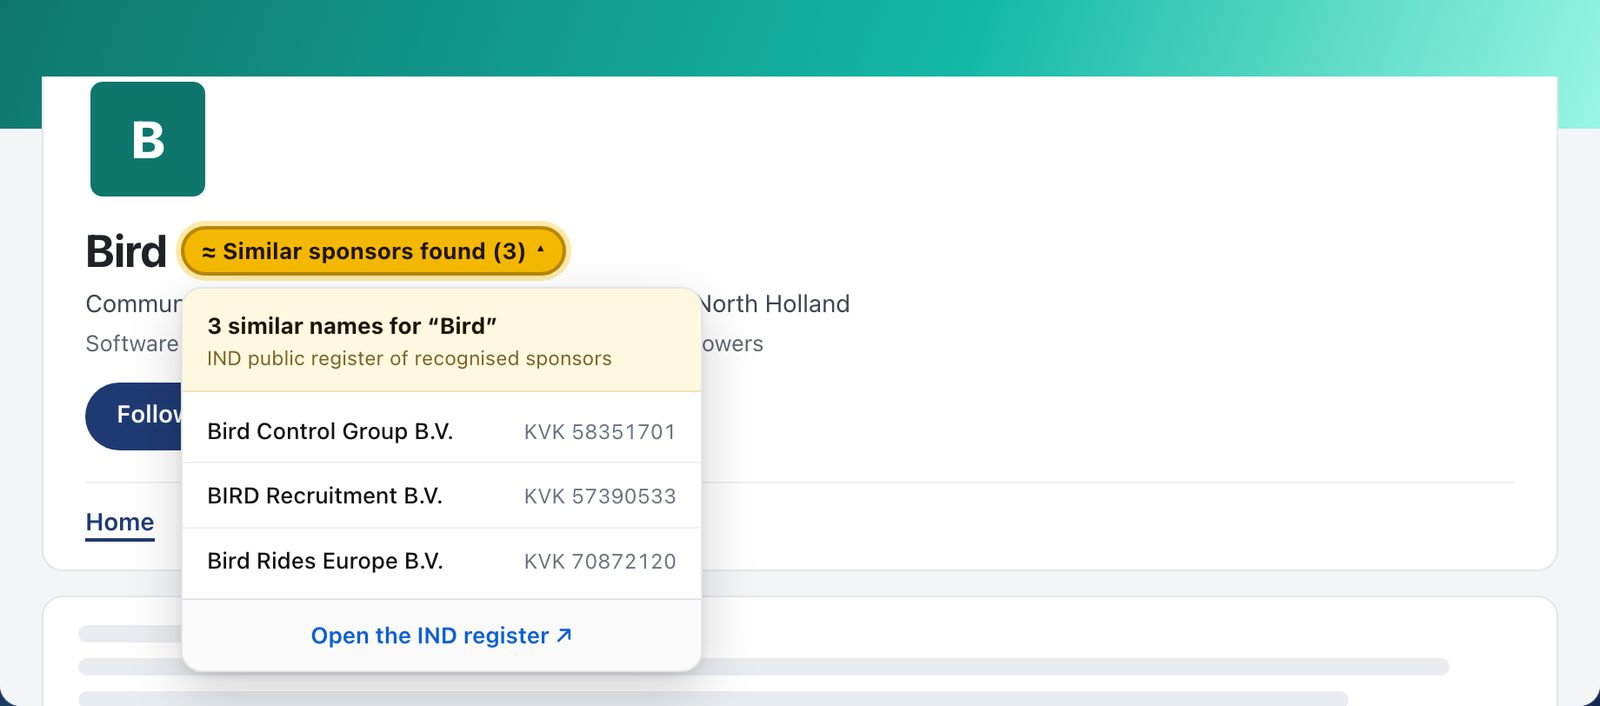
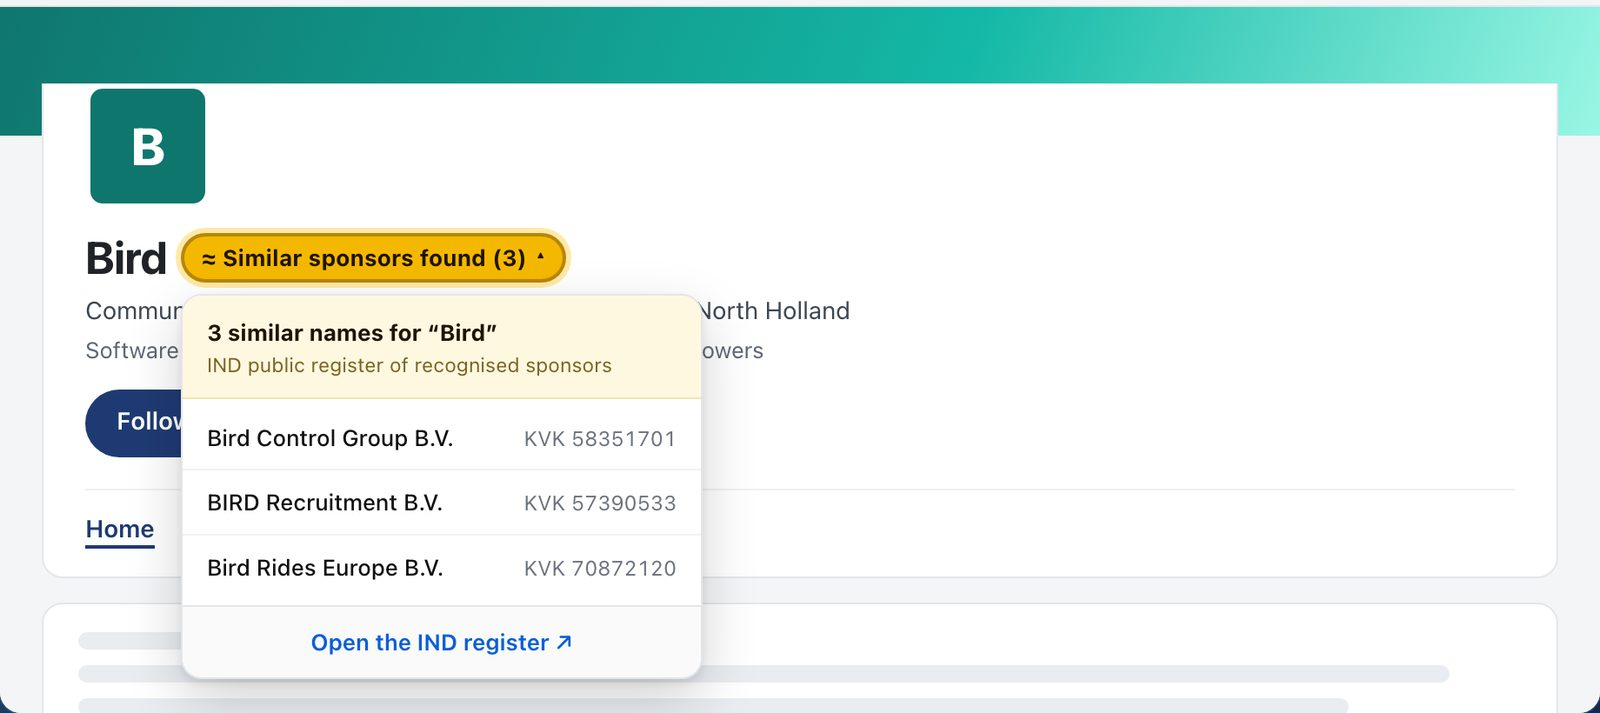
added screenshots

diff --git a/README.md b/README.md
@@ -6,6 +6,26 @@ company pages, and a floating badge on company websites, telling you whether
 that company is in the IND
 [public register of recognised sponsors](https://ind.nl/en/public-register-recognised-sponsors/public-register-work).
 
+## What it looks like
+
+<table>
+  <tr>
+    <td width="50%"><img src="store/screenshots/1280x800/01-job-page.png" alt="A LinkedIn job page with a green 'IND recognised sponsor' badge next to the company name"></td>
+    <td width="50%"><img src="store/screenshots/1280x800/02-three-states.png" alt="Three job cards showing the green, amber and red badge states side by side"></td>
+  </tr>
+  <tr>
+    <td><img src="store/screenshots/1280x800/03-similar-sponsors.png" alt="A company page with the amber badge open, listing the similar register entries with their KVK numbers"></td>
+    <td><img src="store/screenshots/1280x800/04-company-website.png" alt="A company careers page with the floating sponsor badge card in the bottom-right corner"></td>
+  </tr>
+  <tr>
+    <td><img src="store/screenshots/1280x800/05-popup.png" alt="The extension popup with a manual company lookup and the register's last-refresh time"></td>
+    <td></td>
+  </tr>
+</table>
+
+The images are rendered mock pages, not captures of real accounts; see
+[Screenshots](#screenshots) for how they are produced and regenerated.
+
 ```
 src/
   background/   service worker: downloads + caches the register, answers lookups
